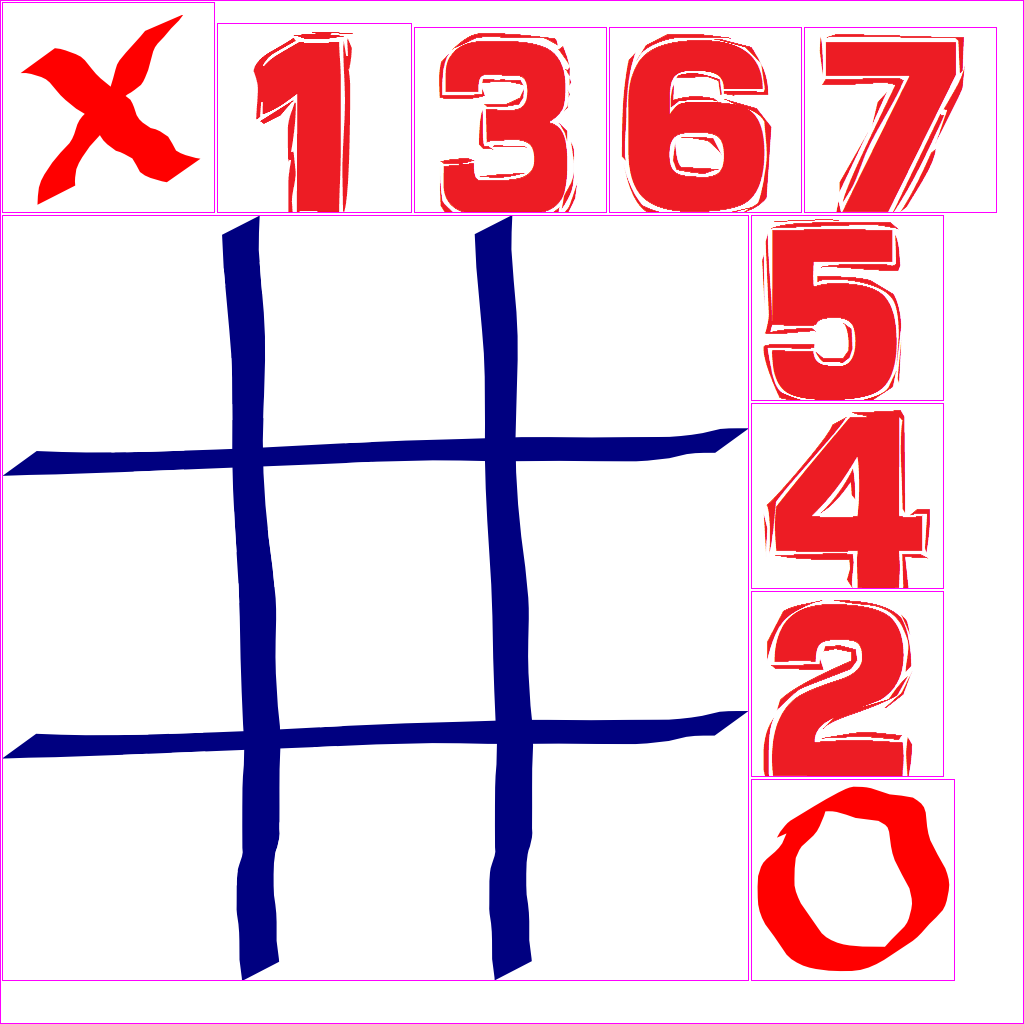
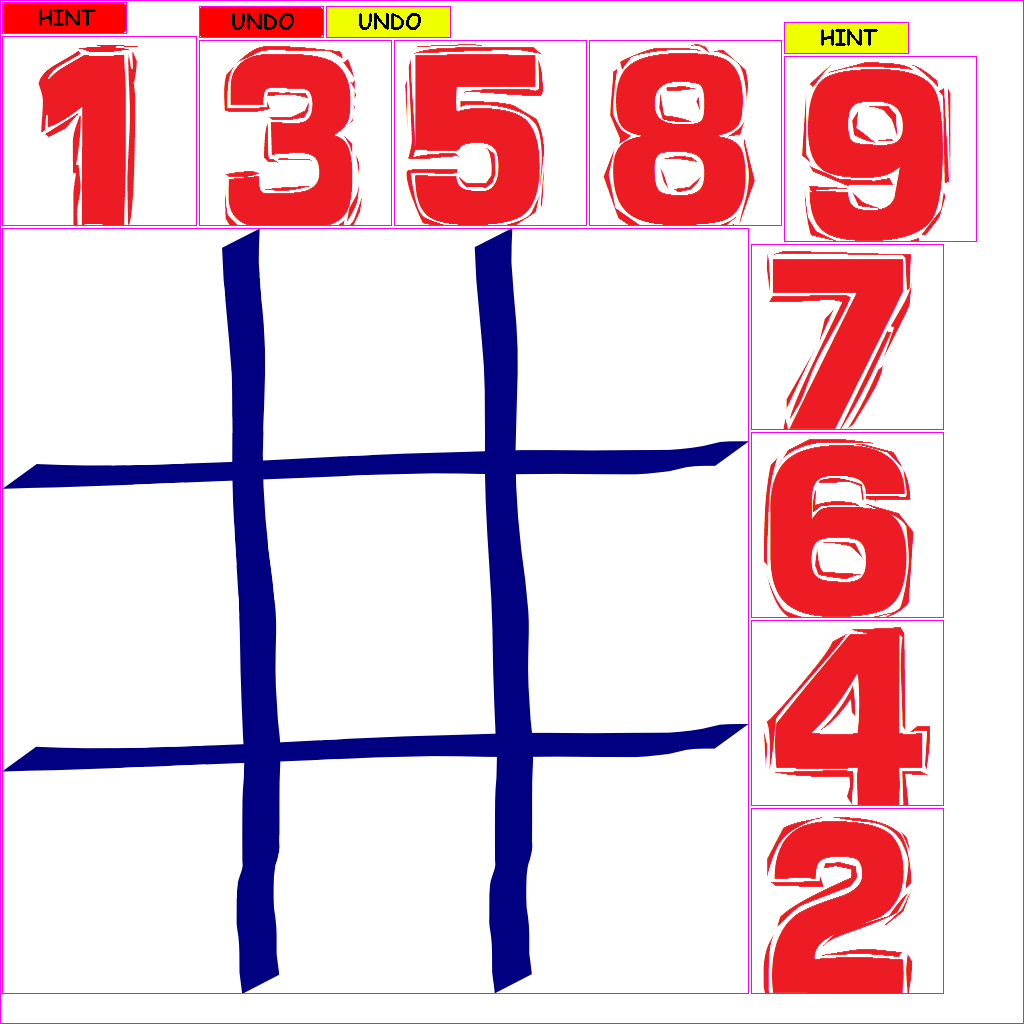
Refactoring code to remove redundancy and remove x and o

diff --git a/core/src/wit/cgd/xando/game/Board.java b/core/src/wit/cgd/xando/game/Board.java
@@ -16,11 +16,9 @@ import java.util.ArrayList;
 import com.badlogic.gdx.Gdx;
 import com.badlogic.gdx.graphics.g2d.SpriteBatch;
 import com.badlogic.gdx.graphics.g2d.TextureRegion;
-import com.badlogic.gdx.utils.Array;
 
 import wit.cgd.xando.game.util.AudioManager;
 import wit.cgd.xando.game.util.Constants;
-import wit.cgd.xando.game.util.GameStats;
 
 public class Board {
 	public static final String TAG = Board.class.getName();
@@ -32,18 +30,10 @@ public class Board {
 	public GameState		gameState;
 	
 	public TextureRegion	board;
-	public TextureRegion	x;
-	public TextureRegion	o;
 	
 	public final int		EMPTY	= 0;
 	public final int		EVEN	= 2;
 	public final int		ODD		= 1;
-	
-	public final TextureRegion[] NUMS	= {Assets.instance.one.region,
-				Assets.instance.two.region, Assets.instance.three.region,
-				Assets.instance.four.region, Assets.instance.five.region,
-				Assets.instance.six.region, Assets.instance.seven.region,
-				Assets.instance.eight.region, Assets.instance.nine.region};
 	
 	public int[][]			cells	= new int [3][3];
 	public ArrayList<Integer> numsOnBoard;
@@ -56,8 +46,6 @@ public class Board {
 	
 	private void init(){
 		board = Assets.instance.board.region;
-		x = Assets.instance.x.region;
-		o = Assets.instance.o.region;
 		start();
 	}
 	
@@ -72,7 +60,7 @@ public class Board {
 		for (int row = 0; row < 3; row++)
 			for (int col = 0; col < 3; col++) {
 				if (cells[row][col] == EMPTY) continue;
-				region = NUMS[cells[row][col]-1];
+				region = Assets.instance.numbers.get(cells[row][col]-1).region;//NUMS[cells[row][col]-1];
 				batch.draw(region.getTexture(), col*1.4f-1.9f,
 						row*1.4f-2.3f, 0, 0, 1, 1, 1, 1, 0,
 						region.getRegionX(), region.getRegionY(),
@@ -87,7 +75,7 @@ public class Board {
         for(int i = 0; i < 9; i+= 2){
         	rowPos ++;
         	if(numsOnBoard.contains(i+1)) continue;
-        	region =  NUMS[i];
+        	region =  Assets.instance.numbers.get(i).region;
             batch.draw(region.getTexture(), (-1) * 1.4f - 1.9f, rowPos - 1.5f, 0, 0, 1, 1, 1, 1, 0,
                     region.getRegionX(), region.getRegionY(), region.getRegionWidth(), region.getRegionHeight(),
                     false, false);
@@ -97,7 +85,7 @@ public class Board {
         for(int i = 1; i < 9; i+= 2){
         	rowPos ++;
         	if(numsOnBoard.contains(i+1)) continue;
-        	region =  NUMS[i];
+        	region =  Assets.instance.numbers.get(i).region;
             batch.draw(region.getTexture(), (3) * 1.4f - 1.9f, rowPos - 1.5f, 0, 0, 1, 1, 1, 1, 0,
                     region.getRegionX(), region.getRegionY(), region.getRegionWidth(), region.getRegionHeight(),
                     false, false);

diff --git a/core/src/wit/cgd/xando/game/WorldController.java b/core/src/wit/cgd/xando/game/WorldController.java
@@ -114,53 +114,23 @@ public class WorldController extends InputAdapter{
 
 	            // check if valid start of a drag for first player
 	            if (col == -1 && board.currentPlayer==board.firstPlayer) {
-	                switch(row){
-	                case 0:
-	                	dragging = true;
-		                dragRegion = board.NUMS[0];
-		                return true;
-	                case 1:
-	                	dragging = true;
-		                dragRegion = board.NUMS[2];
-		                return true;
-	                case 2:
-	                	dragging = true;
-		                dragRegion = board.NUMS[4];
-		                return true;
-	                case 3:
-	                	dragging = true;
-		                dragRegion = board.NUMS[6];
-		                return true;
-	                case 4:
-	                	dragging = true;
-		                dragRegion = board.NUMS[8];
-		                return true;
-		            default:
-		            	break;
-	                }
+	            	for(int r=0; r<5; ++r){
+	            		if(row == r){
+	            			dragging = true;
+			                dragRegion = Assets.instance.numbers.get(r*2).region;
+			                return true;
+	            		}
+	            	}
 	            }
 	            // check if valid start of a drag for second player
 	            if (col == 3 && board.currentPlayer==board.secondPlayer) {
-	            	switch(row){
-	                case 0:
-	                	dragging = true;
-		                dragRegion = board.NUMS[1];
-		                return true;
-	                case 1:
-	                	dragging = true;
-		                dragRegion = board.NUMS[3];
-		                return true;
-	                case 2:
-	                	dragging = true;
-		                dragRegion = board.NUMS[5];
-		                return true;
-	                case 3:
-	                	dragging = true;
-		                dragRegion = board.NUMS[7];
-		                return true;
-		            default:
-		            	break;
-	                }
+	            	for(int r=0; r<4; ++r){
+	            		if(row == r){
+	            			dragging = true;
+			                dragRegion = Assets.instance.numbers.get((r*2)+1).region;
+			                return true;
+	            		}
+	            	}
 	            }
 
 	        }
@@ -186,7 +156,7 @@ public class WorldController extends InputAdapter{
 
         int value = -1;
         for(int i = 0; i < 9; ++i){
-        	if(dragRegion.equals(board.NUMS[i])){
+        	if(dragRegion.equals(Assets.instance.numbers.get(i).region)){
         		value = i+1;
         		break;
         	}

diff --git a/core/src/wit/cgd/xando/game/Assets.java b/core/src/wit/cgd/xando/game/Assets.java
@@ -19,6 +19,7 @@ import com.badlogic.gdx.graphics.Texture.TextureFilter;
 import com.badlogic.gdx.graphics.g2d.BitmapFont;
 import com.badlogic.gdx.graphics.g2d.TextureAtlas;
 import com.badlogic.gdx.graphics.g2d.TextureAtlas.AtlasRegion;
+import com.badlogic.gdx.utils.Array;
 import com.badlogic.gdx.utils.Disposable;
 
 import wit.cgd.xando.game.util.Constants;
@@ -35,17 +36,7 @@ public class Assets implements Disposable, AssetErrorListener {
 	public AssetFonts fonts;
 
 	public Asset				board;
-	public Asset 				x;
-	public Asset 				o;
-	public Asset 				one;
-	public Asset 				two;
-	public Asset 				three;
-	public Asset 				four;
-	public Asset 				five;
-	public Asset 				six;
-	public Asset 				seven;
-	public Asset 				eight;
-	public Asset 				nine;
+	public Array<Asset>			numbers;
 	public AssetSounds          sounds;
 	public AssetMusic           music;
 
@@ -126,20 +117,19 @@ public class Assets implements Disposable, AssetErrorListener {
 			t.setFilter(TextureFilter.Linear, TextureFilter.Linear);
 
 		fonts = new AssetFonts();
-
+		numbers = new Array<Asset>();
+		
 		// build game resource objects
 		board = new Asset(atlas, "board");
-		x = new Asset(atlas, "x");		
-		o = new Asset(atlas, "o");
-		one = new Asset(atlas,"1");
-		two = new Asset(atlas,"2");
-		three = new Asset(atlas,"3");
-		four = new Asset(atlas,"4");
-		five = new Asset(atlas,"5");
-		six = new Asset(atlas,"6");
-		seven = new Asset(atlas,"7");
-		eight = new Asset(atlas,"8");
-		nine = new Asset(atlas,"9");
+		numbers.add(new Asset(atlas,"1"));
+		numbers.add(new Asset(atlas,"2"));
+		numbers.add(new Asset(atlas,"3"));
+		numbers.add(new Asset(atlas,"4"));
+		numbers.add(new Asset(atlas,"5"));
+		numbers.add(new Asset(atlas,"6"));
+		numbers.add(new Asset(atlas,"7"));
+		numbers.add(new Asset(atlas,"8"));
+		numbers.add(new Asset(atlas,"9"));
 		
 		// load sounds
 		assetManager.load("sounds/first.wav", Sound.class);
